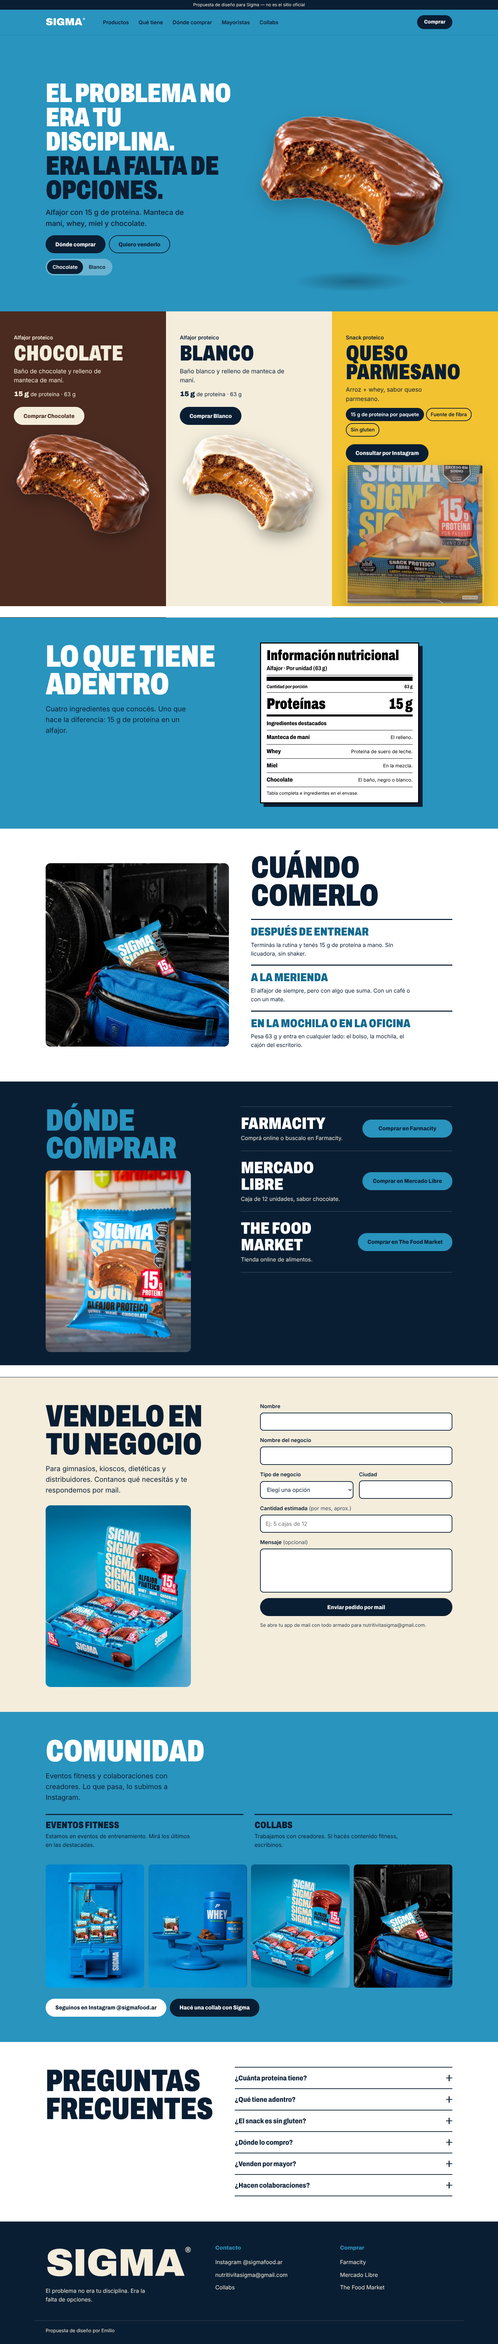
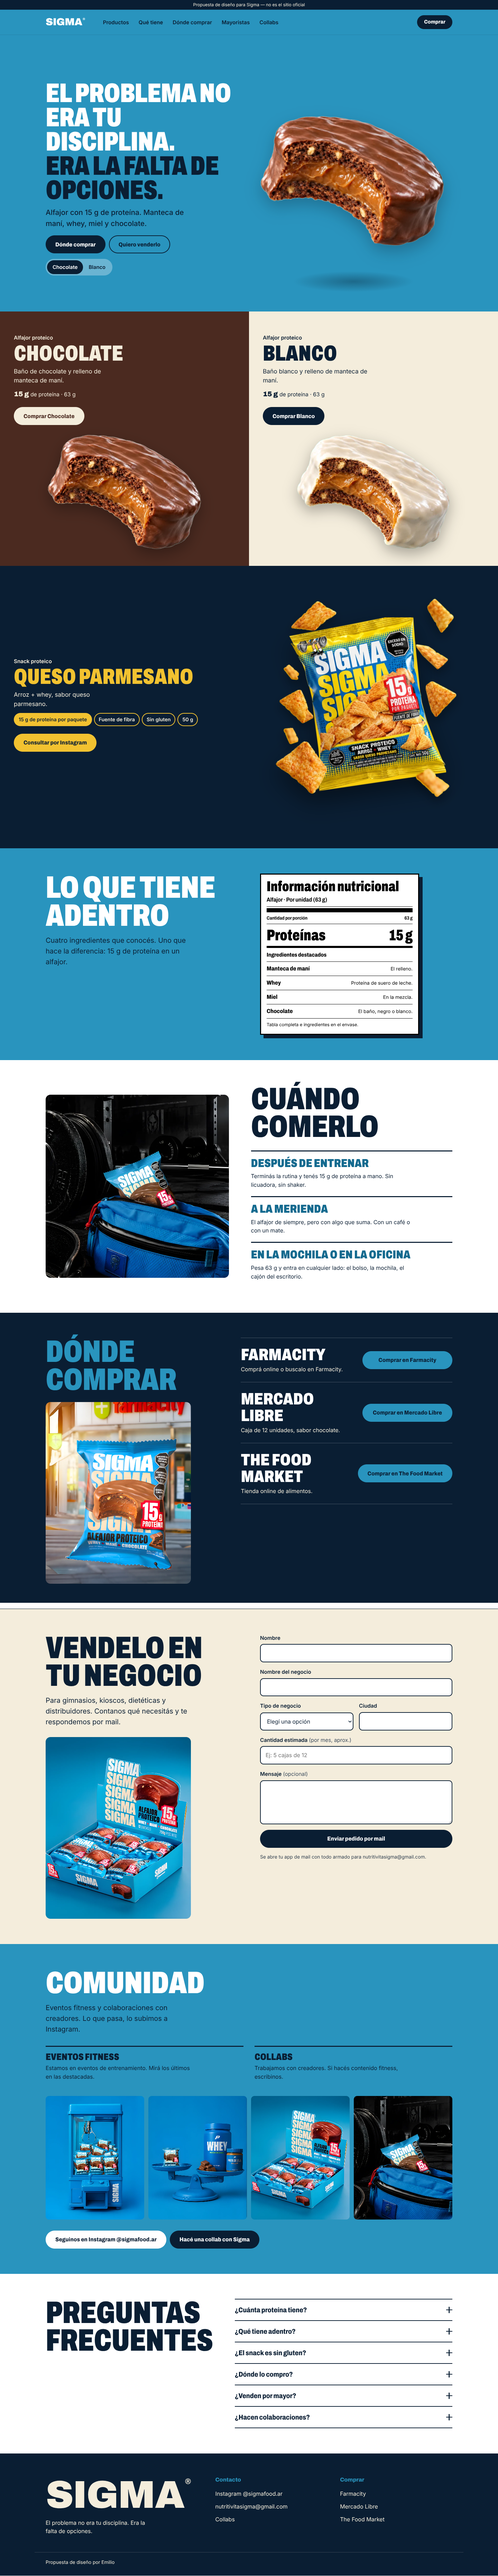
SIGMA v5: snack flotante sobre azul noche y fotos mejoradas con IA
- Sección del snack con la foto de estudio separada en capas: el paquete
  y 8 trocitos que flotan en loop sobre azul noche.
- Peso del snack (50 g) tomado del envase.
- Fotos de la marca mejoradas x4 con Real-ESRGAN y exportadas a 1200 px.

Claude-Session: https://claude.ai/code/session_01HxXsG6qBMUx6GMh4UXiEmT

diff --git a/sigma-demo/css/styles.css b/sigma-demo/css/styles.css
@@ -232,13 +232,10 @@ ul { margin: 0; padding: 0; list-style: none; }
 .sabores__grid { display: grid; }
 @media (min-width: 768px) {
   .sabores__grid { grid-template-columns: 1fr 1fr; }
-  .sabor--snack { grid-column: 1 / -1; grid-template-columns: 1fr 1fr; align-items: center; gap: 32px; }
-  .sabor--snack .sabor__img { margin: 0; }
+  .sabor--snack { grid-template-columns: 1fr 1.1fr; align-items: center; gap: 40px; }
 }
 @media (min-width: 1200px) {
-  .sabores__grid { grid-template-columns: 1fr 1fr 1fr; }
-  .sabor--snack { grid-column: auto; grid-template-columns: none; gap: 0; }
-  .sabor--snack .sabor__img { margin: 8px auto 0; }
+  .sabor--snack { padding: 72px 72px; }
 }
 .sabor {
   position: relative; display: grid; grid-template-rows: auto auto; align-content: start;
@@ -246,7 +243,34 @@ ul { margin: 0; padding: 0; list-style: none; }
 }
 .sabor--chocolate { background: var(--choco); color: var(--crema); }
 .sabor--blanco { background: var(--crema); color: var(--noche); }
-.sabor--snack { background: var(--amarillo); color: var(--noche); }
+/* Snack: panel ancho en azul noche, contrasta con el amarillo del paquete */
+.sabor--snack { grid-column: 1 / -1; background: var(--noche); color: var(--crema); overflow: hidden; }
+.sabor--snack .sabor__nombre { color: var(--amarillo); }
+.sabor--snack .sabor__lista li { border-color: var(--amarillo); color: var(--crema); }
+.sabor--snack .sabor__lista li:first-child { background: var(--amarillo); color: var(--noche); }
+.btn--amarillo { background: var(--amarillo); color: var(--noche); }
+.btn--amarillo:hover { background: #f7d257; }
+.sabor--snack :focus-visible { outline-color: var(--amarillo); }
+.snack-escena { position: relative; width: min(100%, 560px); max-width: 100%; margin: 28px auto 0; }
+.snack-escena img { position: absolute; height: auto; max-width: none; }
+.snack-escena__paquete {
+  z-index: 1; filter: drop-shadow(0 30px 34px rgba(0, 0, 0, .45));
+  animation: snack-paquete 6s ease-in-out infinite;
+}
+.snack-escena__trozo {
+  z-index: 2; filter: drop-shadow(0 14px 14px rgba(0, 0, 0, .35));
+  animation: snack-trozo var(--dur, 6s) ease-in-out var(--delay, 0s) infinite;
+}
+@keyframes snack-paquete {
+  0%, 100% { transform: translateY(0) rotate(0deg); }
+  50% { transform: translateY(-14px) rotate(-1.2deg); }
+}
+@keyframes snack-trozo {
+  0%, 100% { transform: translate(0, 0) rotate(0deg); }
+  50% { transform: translate(var(--dx), var(--dy)) rotate(var(--rot)); }
+}
+@media (min-width: 768px) { .snack-escena { margin: 0 auto; } }
+@media (prefers-reduced-motion: reduce) { .snack-escena img { animation: none !important; } }
 .sabor__tipo { font-weight: 600; font-size: .95rem; margin-bottom: 6px; }
 .sabor__lista { display: flex; flex-wrap: wrap; gap: 6px; margin: 12px 0 22px; }
 .sabor__lista li {
@@ -254,7 +278,7 @@ ul { margin: 0; padding: 0; list-style: none; }
   border: 2px solid var(--noche);
 }
 .sabor__lista li:first-child { background: var(--noche); color: var(--blanco); }
-.sabor__img--foto { aspect-ratio: auto; border-radius: var(--radio); object-fit: cover; width: min(100%, 420px); box-shadow: 0 18px 40px rgba(10, 30, 51, .25); }
+
 .sabor__nombre {
   font-family: var(--f-display); font-weight: 900; font-stretch: 70%;
   font-size: clamp(3rem, 8vw, 5.4rem); line-height: .85; text-transform: uppercase; text-wrap: balance;

diff --git a/sigma-demo/js/config.js b/sigma-demo/js/config.js
@@ -61,8 +61,10 @@ window.SIGMA_CONFIG = {
     sabor: "Queso parmesano",
     bajada: "Arroz + whey, sabor queso parmesano.",
     datos: ["15 g de proteína por paquete", "Fuente de fibra", "Sin gluten"],
-    peso: null, // [PENDIENTE] peso neto del paquete (no se lee bien en la foto)
-    imagen: "img/snack.webp",
+    peso: "50 g", // del envase: "Cont. Neto 50g"
+    imagen: "img/snack.webp", // foto vieja (ya no se usa en la sección)
+    // Composición flotante: paquete + trozos recortados de la foto de estudio (posiciones en % de la foto)
+    escena: { ancho: 1145, alto: 1374, piezas: [{"src": "img/snack/paquete.webp", "x": 3.76, "y": 12.59, "w": 88.38, "h": 76.2, "paquete": true}, {"src": "img/snack/trozo-1.webp", "x": 11.62, "y": 5.24, "w": 24.28, "h": 13.61, "dx": 10, "dy": -18, "rot": 8, "dur": 6.2, "delay": 0}, {"src": "img/snack/trozo-2.webp", "x": 82.97, "y": 37.77, "w": 16.51, "h": 16.23, "dx": -12, "dy": 16, "rot": -10, "dur": 5.4, "delay": -1.2}, {"src": "img/snack/trozo-3.webp", "x": 4.72, "y": 43.67, "w": 18.86, "h": 15.14, "dx": 14, "dy": -12, "rot": 12, "dur": 7.0, "delay": -2.5}, {"src": "img/snack/trozo-4.webp", "x": 67.69, "y": 77.29, "w": 26.81, "h": 13.1, "dx": -10, "dy": -14, "rot": -8, "dur": 5.8, "delay": -0.6}, {"src": "img/snack/trozo-5.webp", "x": 80.09, "y": 2.11, "w": 15.37, "h": 14.85, "dx": 8, "dy": 20, "rot": 10, "dur": 6.6, "delay": -3.1}, {"src": "img/snack/trozo-6.webp", "x": 79.83, "y": 23.94, "w": 15.72, "h": 13.17, "dx": -14, "dy": -10, "rot": -12, "dur": 5.0, "delay": -1.8}, {"src": "img/snack/trozo-7.webp", "x": 6.72, "y": 60.99, "w": 9.26, "h": 7.86, "dx": 6, "dy": -16, "rot": 14, "dur": 4.6, "delay": -2.2}, {"src": "img/snack/trozo-8.webp", "x": 9.61, "y": 30.64, "w": 8.3, "h": 8.01, "dx": -8, "dy": 12, "rot": -14, "dur": 4.2, "delay": -0.9}] },
     alt: "Paquete de Snack proteico Sigma de arroz y whey, sabor queso parmesano, con 15 g de proteína por paquete",
     // [PENDIENTE] link de compra del snack. Mientras tanto, consulta por Instagram.
     boton: { texto: "Consultar por Instagram", href: "https://ig.me/m/sigmafood.ar" },

diff --git a/sigma-demo/js/app.js b/sigma-demo/js/app.js
@@ -96,9 +96,15 @@
           '<p class="sabor__bajada">' + esc(K.bajada) + "</p>" +
           '<ul class="sabor__lista">' + K.datos.map(function (d) { return "<li>" + esc(d) + "</li>"; }).join("") +
             (K.peso ? "<li>" + esc(K.peso) + "</li>" : "") + "</ul>" +
-          '<a class="btn btn--noche" href="' + esc(K.boton.href) + '"' + ext(K.boton.href) + ">" + esc(K.boton.texto) + "</a>" +
+          '<a class="btn btn--amarillo" href="' + esc(K.boton.href) + '"' + ext(K.boton.href) + ">" + esc(K.boton.texto) + "</a>" +
         "</div>" +
-        '<img class="sabor__img sabor__img--foto" src="' + esc(K.imagen) + '" alt="' + esc(K.alt) + '" loading="lazy" width="300" height="307">';
+        '<div class="snack-escena" role="img" aria-label="' + esc(K.alt) + '" style="aspect-ratio:' + K.escena.ancho + "/" + K.escena.alto + '">' +
+          K.escena.piezas.map(function (p) {
+            var st = "left:" + p.x + "%;top:" + p.y + "%;width:" + p.w + "%;";
+            if (!p.paquete) st += "--dx:" + p.dx + "px;--dy:" + p.dy + "px;--rot:" + p.rot + "deg;--dur:" + p.dur + "s;--delay:" + p.delay + "s;";
+            return '<img class="' + (p.paquete ? "snack-escena__paquete" : "snack-escena__trozo") + '" src="' + esc(p.src) + '" alt="" loading="lazy" style="' + st + '">';
+          }).join("") +
+        "</div>";
       sg.appendChild(art);
     }
   });

diff --git a/sigma-demo/tools/recortar-snack.py b/sigma-demo/tools/recortar-snack.py
@@ -1,0 +1,72 @@
+from PIL import Image, ImageDraw, ImageFilter
+import numpy as np, json
+S='/tmp/claude-0/-home-user-estudiar/b13922c0-0ec5-5de1-bbed-5a191895e99b/scratchpad/'
+src=Image.open('assets-sigma/snack-flotando.webp').convert('RGB')
+im=np.asarray(src).astype(float); H,W,_=im.shape
+fondo=np.load(S+'snack-fondo.npy')
+obj=Image.fromarray(np.where(fondo,0,255).astype(np.uint8)).copy()
+lab=0; comps=[]
+while True:
+    pts=np.argwhere(np.array(obj)==255)
+    if len(pts)==0: break
+    y,x=pts[0]
+    ImageDraw.floodfill(obj,(int(x),int(y)),1)
+    a=np.array(obj)==1
+    area=a.sum()
+    if area>1500:
+        ys,xs=np.nonzero(a)
+        col=im[a].mean(0)
+        comps.append(dict(mask=a,area=int(area),bbox=(int(xs.min()),int(ys.min()),int(xs.max()),int(ys.max())),col=col))
+    obj=Image.fromarray(np.where(a,0,np.array(obj)).astype(np.uint8)).copy()
+comps.sort(key=lambda c:-c['area'])
+def hull(points):
+    pts=sorted(set(map(tuple,points)))
+    def cross(o,a,b): return (a[0]-o[0])*(b[1]-o[1])-(a[1]-o[1])*(b[0]-o[0])
+    lo=[];up=[]
+    for p in pts:
+        while len(lo)>=2 and cross(lo[-2],lo[-1],p)<=0: lo.pop()
+        lo.append(p)
+    for p in reversed(pts):
+        while len(up)>=2 and cross(up[-2],up[-1],p)<=0: up.pop()
+        up.append(p)
+    return lo[:-1]+up[:-1]
+SS=4
+salida=[]
+for i,c in enumerate(comps):
+    if c['col'][2]<25 and i>0:   # sombra del piso (amarillo oscuro sin azul) → fuera
+        print('descarto sombra', c['bbox'], c['col'].round()); continue
+    a=c['mask']
+    # borde del objeto para el casco convexo
+    ys,xs=np.nonzero(a)
+    pts=np.stack([xs,ys],1)
+    h=hull(pts[::7].tolist()+pts[np.argsort(xs)[:50]].tolist()+pts[np.argsort(-xs)[:50]].tolist()+pts[np.argsort(ys)[:50]].tolist()+pts[np.argsort(-ys)[:50]].tolist())
+    x0,y0,x1,y1=c['bbox']; pad=6
+    x0,y0,x1,y1=max(0,x0-pad),max(0,y0-pad),min(W-1,x1+pad),min(H-1,y1+pad)
+    w,hh=x1-x0+1,y1-y0+1
+    m=Image.new('L',(w*SS,hh*SS),0); d=ImageDraw.Draw(m)
+    if i==0:
+        # contorno del paquete marcado a mano sobre la foto (los sellos amarillos se confunden con el fondo)
+        BOLSA=[(128,283),(500,212),(858,140),(870,300),(890,500),(905,650),(940,780),(985,900),(1030,1010),(1058,1088),(700,1140),(305,1198),(312,1100),(300,950),(280,800),(262,650),(225,500),(180,380)]
+        d.polygon([((px-x0)*SS,(py-y0)*SS) for px,py in BOLSA],fill=255)
+        loc=a[y0:y1+1,x0:x1+1]
+        real=Image.fromarray((loc*255).astype(np.uint8)).resize((w*SS,hh*SS))
+        m=Image.fromarray(np.maximum(np.array(m),np.array(real)))
+    else:
+        d.polygon([((px-x0)*SS,(py-y0)*SS) for px,py in h],fill=255)
+    m=m.resize((w,hh),Image.LANCZOS).filter(ImageFilter.GaussianBlur(0.6))
+    # en los trozos, respetar el contorno real (no el casco) donde el fondo es claramente amarillo
+    if i>0:
+        loc=a[y0:y1+1,x0:x1+1]
+        real=Image.fromarray((loc*255).astype(np.uint8)).filter(ImageFilter.MaxFilter(3)).filter(ImageFilter.GaussianBlur(0.8))
+        m=Image.fromarray(np.minimum(np.array(m),np.array(real)).astype(np.uint8))
+    rgba=src.crop((x0,y0,x1+1,y1+1)).convert('RGBA'); rgba.putalpha(m)
+    nombre='paquete' if i==0 else f'trozo-{len(salida)}'
+    salida.append(dict(nombre=nombre,x=x0/W*100,y=y0/H*100,w=w/W*100,h=hh/H*100,px=(x0,y0,w,hh)))
+    rgba.save(S+f'snack-{nombre}.png')
+print(json.dumps([{k:(round(v,2) if isinstance(v,float) else v) for k,v in s.items()} for s in salida],indent=0))
+json.dump(salida,open(S+'snack-piezas.json','w'))
+# vista previa sobre azul noche
+prev=Image.new('RGB',(W,H),(10,30,51))
+for s in salida:
+    p=Image.open(S+f"snack-{s['nombre']}.png"); prev.paste(p,(s['px'][0],s['px'][1]),p)
+prev.resize((W//2,H//2)).save(S+'snack-prev.png')

diff --git a/sigma-demo/tools/mejorar-fotos.py b/sigma-demo/tools/mejorar-fotos.py
@@ -1,0 +1,29 @@
+"""Mejora de resolución x4 con Real-ESRGAN (ncnn, en CPU), por bloques."""
+import sys, time, numpy as np, ncnn
+from PIL import Image
+net = ncnn.Net(); net.opt.use_vulkan_compute = False; net.opt.num_threads = 8
+net.load_param('models/realesrgan-x4plus.param'); net.load_model('models/realesrgan-x4plus.bin')
+def sr(img, tile=160, pad=12):
+    a = np.asarray(img.convert('RGB')).astype(np.float32) / 255
+    H, W, _ = a.shape; S = 4
+    out = np.zeros((H * S, W * S, 3), np.float32)
+    for y in range(0, H, tile):
+        for x in range(0, W, tile):
+            y0, x0 = max(0, y - pad), max(0, x - pad)
+            y1, x1 = min(H, y + tile + pad), min(W, x + tile + pad)
+            blk = np.ascontiguousarray(a[y0:y1, x0:x1].transpose(2, 0, 1))
+            ex = net.create_extractor()
+            ex.input('data', ncnn.Mat(blk))
+            _, o = ex.extract('output')
+            o = np.array(o).transpose(1, 2, 0)
+            ty, tx = (y - y0) * S, (x - x0) * S
+            hh, ww = min(tile, H - y) * S, min(tile, W - x) * S
+            out[y * S:y * S + hh, x * S:x * S + ww] = o[ty:ty + hh, tx:tx + ww]
+    return Image.fromarray((np.clip(out, 0, 1) * 255 + .5).astype(np.uint8))
+if __name__ == '__main__':
+    src, dst = sys.argv[1], sys.argv[2]
+    t = time.time(); im = Image.open(src)
+    alpha = im.getchannel('A') if im.mode == 'RGBA' else None
+    o = sr(im)
+    if alpha is not None: o.putalpha(alpha.resize(o.size, Image.LANCZOS))
+    o.save(dst); print(src, im.size, '->', o.size, round(time.time() - t, 1), 's')

diff --git a/sigma-demo/RESUMEN.md b/sigma-demo/RESUMEN.md
@@ -5,7 +5,12 @@ Una web de una sola página para reemplazar el Linktree de @sigmafood.ar, pensad
 
 Lo probé con Playwright en 375, 768 y 1440 px: sin errores en consola, sin scroll horizontal, links correctos, el formulario arma bien el mail, el scroll no se traba sobre el alfajor en celular, el foco con teclado es visible y axe-core no encontró problemas de accesibilidad (WCAG A/AA). Capturas en `capturas/`.
 
-## Versión 4 (actual)
+## Versión 5 (actual)
+- **Snack con la foto de estudio nueva**: recorté el paquete y los 8 trocitos por separado y los puse sobre azul noche (contrasta con el amarillo). Los trocitos flotan en loop, cada uno con su ritmo, y el paquete se mece suave. Con "reducir movimiento" quedan quietos. Del envase sale el peso: **50 g**.
+- **Fotos mejoradas con IA**: caja, máquina, balanza, gimnasio y Farmacity pasaron por Real-ESRGAN (x4, gratis, corre en la compu) y quedaron en 1200 px de ancho. Bordes y texturas mucho más nítidos; las letras muy chicas (sellos) no se pueden recuperar.
+- Scripts en `tools/` (`mejorar-fotos.py`, `recortar-snack.py`).
+
+## Versión 4
 - **El inicio usa las fotos reales del alfajor mordido** (chocolate y blanco) que mandó Emilio. Les saqué el fondo celeste y quedaron sobre el azul de SIGMA con su sombra. El alfajor flota, se inclina en perspectiva con el mouse o el dedo, se acerca con el scroll y aparecen las etiquetas. El botón Chocolate/Blanco cambia la foto.
 - Las mismas fotos se usan en Sabores, en Collabs y en la imagen para compartir el link.
 - **Se sacó el 3D hecho con código** (Three.js): la página carga más rápido. Las versiones 3D quedaron en el historial de git.
@@ -45,10 +50,10 @@ Hasta la versión 3 se usó la **Opción A**: alfajor hecho con código en Three
 
 ## Pendiente
 - **Confirmar que @doiverpichhh es el chico del video** y conseguir videos o usuarios de otros creadores (hoy hay uno solo).
-- **Snack**: peso neto, dónde se vende y una foto en buena resolución.
+- **Snack**: dónde se vende (el botón hoy abre un DM de Instagram).
 - **Tabla nutricional**: solo figura "Proteínas 15 g". Faltan calorías, carbohidratos, grasas (totales, saturadas, trans), fibra y sodio, sacados del envase.
 - **WhatsApp de la marca** y **tu número de WhatsApp** (los botones aparecen solos cuando los cargues).
-- **Fotos en alta resolución**: las que llegaron miden ~450–590 px y en escritorio se nota.
+- **Fotos originales**: las mejoré con IA, pero los archivos originales de la marca siempre van a verse mejor.
 - **Fotos de eventos y collabs** para Comunidad (hoy usa fotos de producto).
 - **Logo oficial en SVG** (hoy el wordmark es texto en Archivo 900).
 - **Qué tienda vende el sabor Blanco**, para que el botón de ese sabor vaya directo.

diff --git a/sigma-demo/DECISIONES.md b/sigma-demo/DECISIONES.md
@@ -56,7 +56,13 @@ Además corrí **axe-core** (reglas WCAG 2 A y AA) en 375 px y 1440 px: **0 viol
 ### Tono
 Voseo, frases cortas, sin exageraciones ni promesas. Ejemplos: "Terminás la rutina y tenés 15 g de proteína a mano. Sin licuadora, sin shaker." / "Vendelo en tu negocio".
 
-## Alfajor del inicio — versión 4 (actual)
+## Versión 5 — snack flotante y fotos mejoradas
+
+- **Snack**: la foto de estudio (`assets-sigma/snack-flotando.webp`) se separó en 9 capas (`img/snack/`): el paquete y 8 trocitos. El fondo amarillo se detectó por color; el contorno del paquete se marcó a mano porque los sellos metálicos amarillos se confunden con el fondo. La sección pasó a ser un panel ancho en **azul noche** (#0A1E33): el amarillo del paquete contrasta mucho más que sobre amarillo. Cada trozo tiene su propio movimiento en loop (CSS `@keyframes`, distinto desplazamiento, giro, duración y desfase), y el paquete se mece suave. Con "reducir movimiento" quedan quietos.
+- **Peso del snack**: 50 g, leído en el envase de la foto nueva ("Cont. Neto 50g").
+- **Fotos mejoradas**: Real-ESRGAN x4plus (modelo libre, corrido en CPU con ncnn, sin costo). Se aplicó a caja, máquina, balanza, gimnasio y Farmacity; salida a 1200 px de ancho en WebP. Las fotos del alfajor mordido y del snack ya venían en buena resolución y no se tocaron. Scripts en `tools/` (tienen rutas de mi entorno; hay que ajustarlas para correrlos en otra compu).
+
+## Alfajor del inicio — versión 4
 
 - Emilio mandó dos fotos de estudio del alfajor mordido (chocolate y blanco, `assets-sigma/alfajor-*-mordido.webp`). Se ven mucho mejor que cualquier modelo hecho por código, así que **el inicio pasó a usar esas fotos** y se sacó Three.js.
 - **Recorte**: el fondo celeste se sacó con un "chroma" por color (azul menos rojo) más un relleno desde los bordes, para no borrar brillos claros del baño blanco. Los bordes se suavizan y se les quita el reflejo celeste. Resultado: `img/alfajor-chocolate.webp` / `img/alfajor-blanco.webp` (1100 px) y versiones de 640 px para Sabores.
